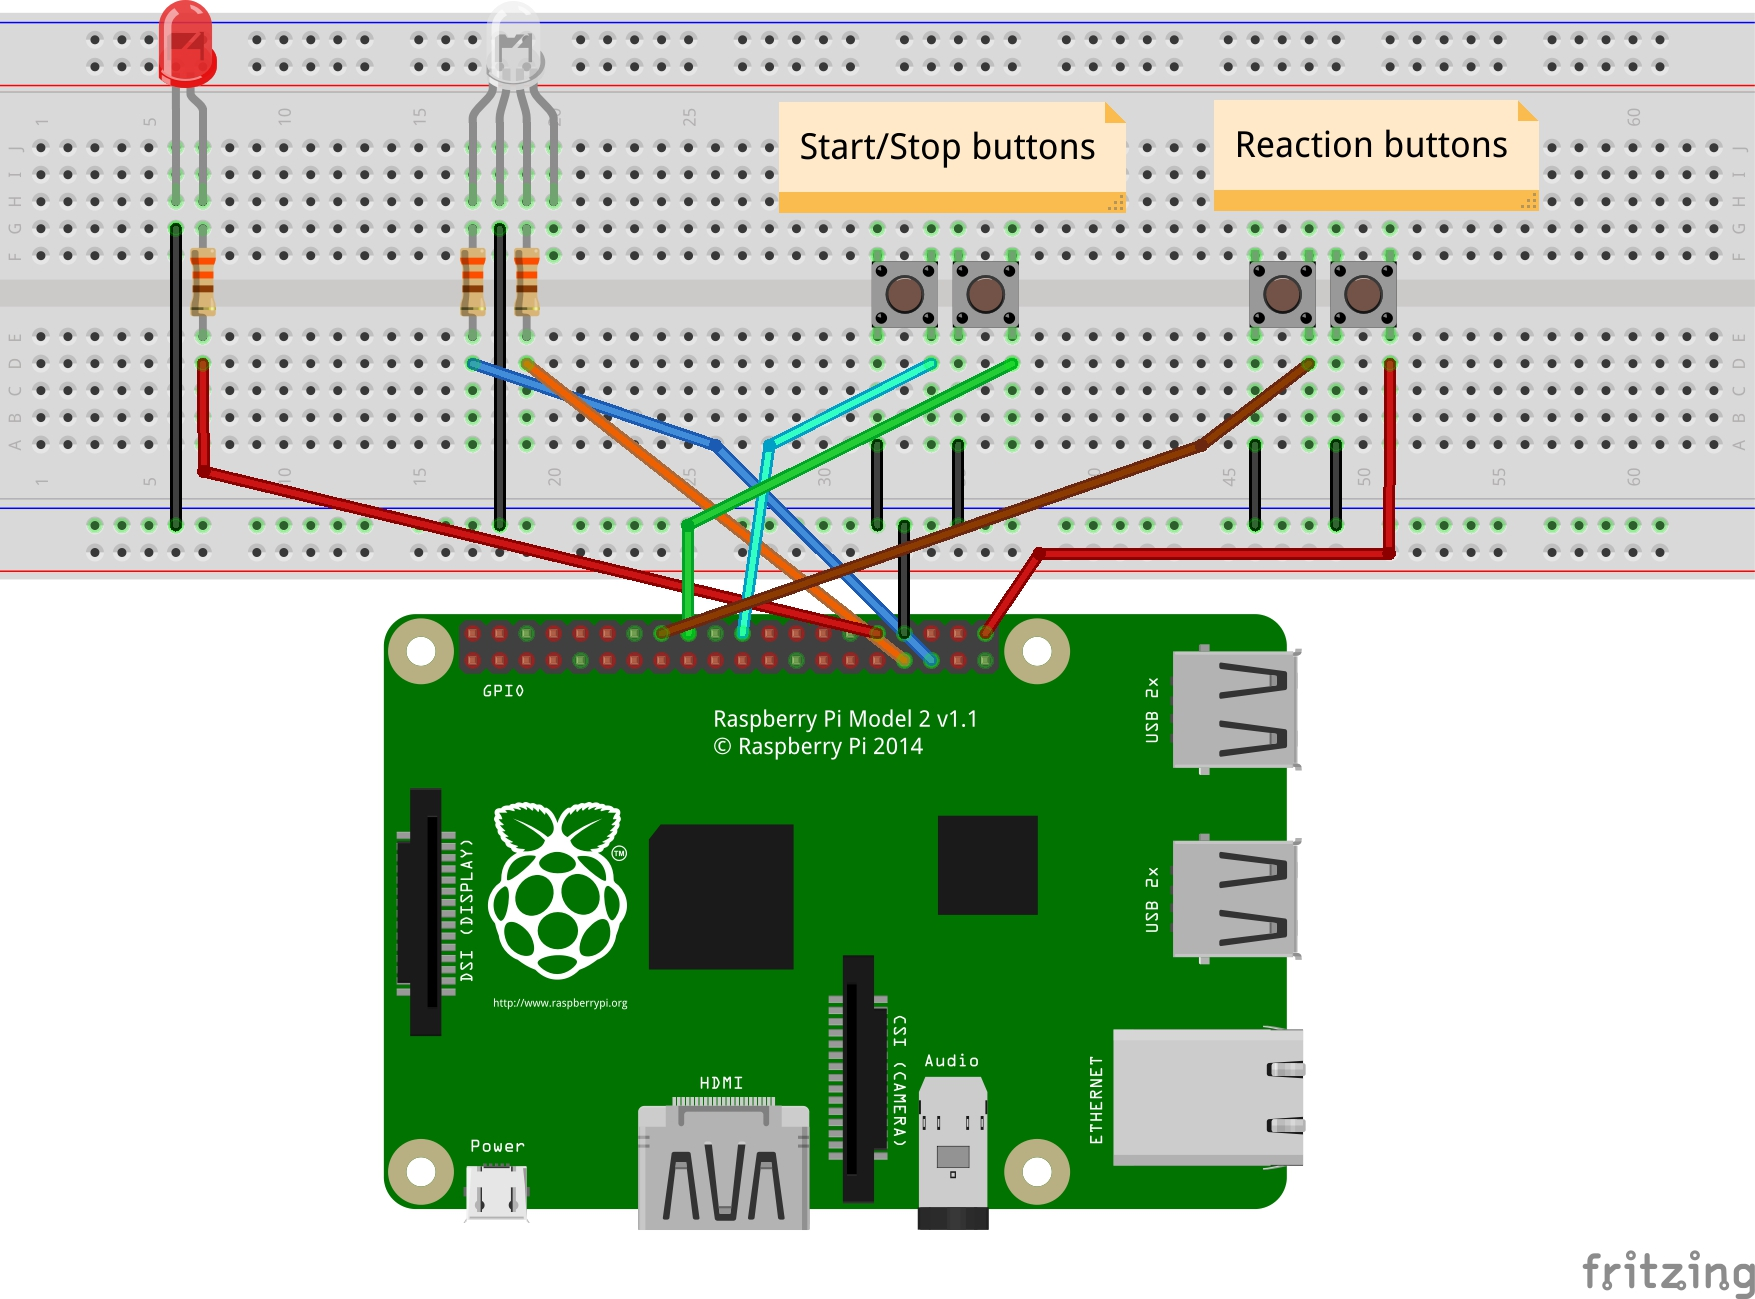
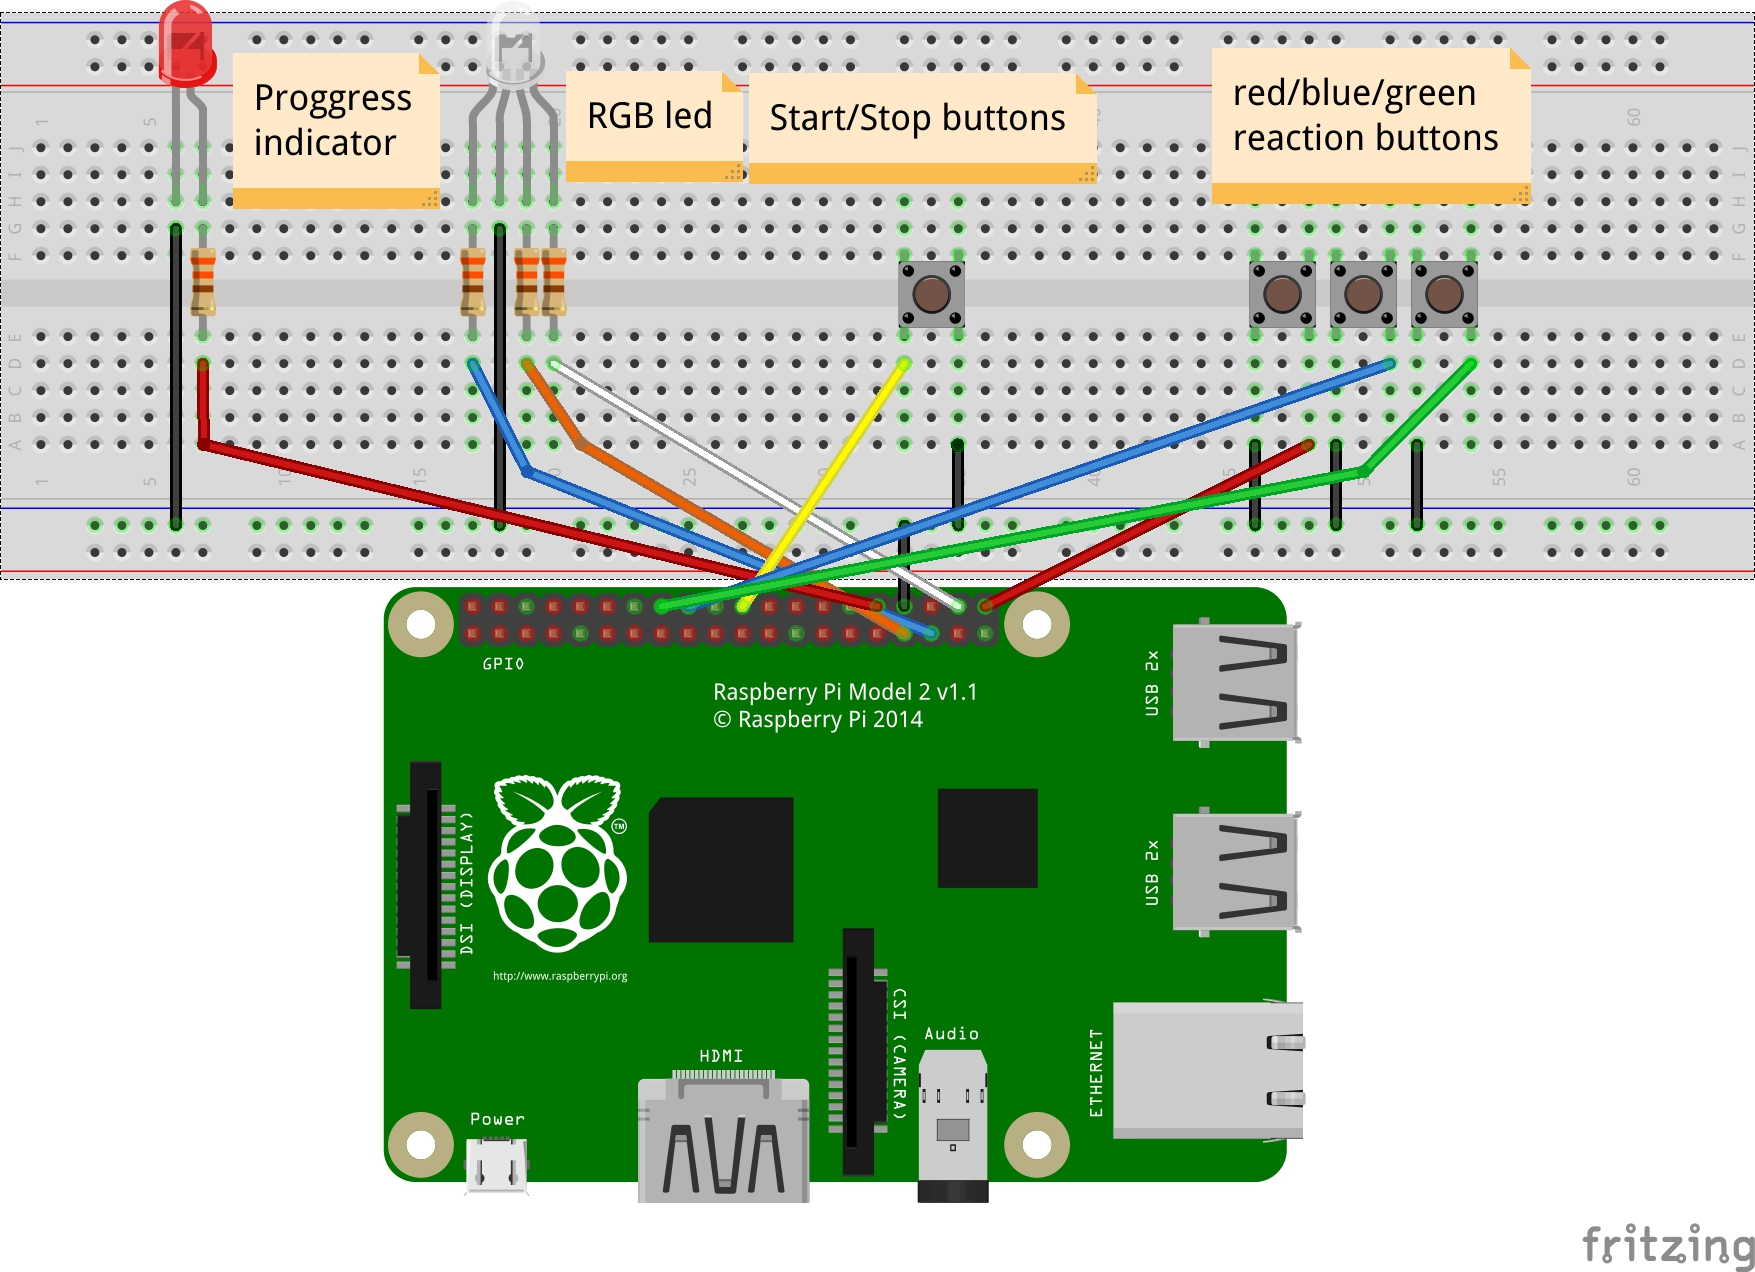
update documentation

diff --git a/README.md b/README.md
@@ -1,15 +1,12 @@
-## Raspberry Pi reaction test
-I am always amazed when I see nicely crafted software components. I admire developers who take the time and try to deliver something functional meanwhile it is also fun to read. 
-I don't claim that I always fulfil my own criteria but at least I am striving.
-What I like even more is when a software component has its hardware counterpart and they are working together to materialize the functionality in some physical effects. Based on this motive eventually I persuaded myself to buy a Raspberry Pi Model 2 with some extensions to be able build my own sandbox.
-The main goal of this project is to play around with Raspberry's GPIO capability and see how it goes with different scala frameworks.
+## Raspberry Pi reaction test for London Scala exchange 2015 [![Codacy Badge](https://api.codacy.com/project/badge/grade/2bdf2ea380b24871b9f52d878005a87b)](https://www.codacy.com/app/krisztian-lachata/raspberrypi-reaction-test)
 
 ### Functionality
-The test application itself is effectively a simple reaction measure system. 
+The application itself is a simple reaction measure system. 
 - Start the test with the start button
-- After it was kicked off it will randomly blink red or green led. You have to push red or green buttons respectively within the configured time range. 
+- Provide your details on the web UI, submit the form
+- After the submission it will randomly blink red, green or blue led. You have to push red, green or blue buttons respectively within the configured time range. 
 - The progress indicator PWM red led starts from OFF state. Based on your reaction its pulse width will be increased till the point where it reaches its maximum. 
-- When the red led reaches its maximum pulse width (brightest) the test is over. Calculated average reaction and number of tries will be printed.
+- When the red led reaches its maximum pulse width (brightest) the test is over. Calculated average reaction and number of tries will be recorded and displayed.
 - Better reaction time results longer test period -> more tries -> higher score
 
 That is it!
@@ -19,38 +16,32 @@ That is it!
 - [Fritzing](http://fritzing.org/home/) for circuit design
 - [wiringPi](http://wiringpi.com/) for low level GPIO manipulation
 - [pi4j](http://pi4j.com/) java library to interact with the pi
+- [pi4j-client](http://github.com/lachata/pi4j-client) to be able to run pi4j code remotely on a desktop
 - [Akka](http://doc.akka.io/docs/akka/2.4.0/scala.html?_ga=1.247924037.378696074.1444496540) to have actor, persistence, FSM, cluster support
+- [AngularJS](https://angularjs.org/) to increase the UI development speed
+- [Bootstrap](http://getbootstrap.com/) to speed up ergonomical UI development
 
-### Project structure
-In order to be able to try different approaches there are multiple modules in the project:
-- **common** - it contains the reusable parts
-- **gpio** - it contains the base implementation. Future combinators, promise, stream
-- **rx** - it ***will*** contain the RxScala implementation
-- **actor** - it ***will*** contain the actor based implementation
- 
 ### Circuit layout
 Items:
-- 3 x 330Ohm resistances
-- 1 x red led
+- 4 x 330Ohm resistances
+- 1 x red led as a progress indicator
 - 1 x RGB led
 - 4 x buttons
 - Breadboard + wires
 
 GPIO usage
-- Start button -> BCM_25 (input, PinPullResistance.PULL_UP)
-- Stop button -> BCM_24 (input, PinPullResistance.PULL_UP)
-- Red led -> BCM_19 (output)
-- Green led -> BCM_13 (output)
+- Start/Stop button -> BCM_25 (input, PinPullResistance.PULL_UP)
+- Shutdown button -> BCM_24 (input, PinPullResistance.PULL_UP)
+- Red led (RGB bulb) -> BCM_19 (output)
+- Green led (RGB bulb) -> BCM_13 (output)
+- Blue led (RGB bulb) -> BCM_20 (output)
 - Red button -> BCM_21 (input, PinPullResistance.PULL_UP)
 - Green button -> BCM_23 (input, PinPullResistance.PULL_UP)
+- Blue button -> BCM_24 (input, PinPullResistance.PULL_UP) (during the game it is a reaction button, after the game it is a shutdown button)
 - Progress indicator -> BCM_12 (PWM output)
 
 ![Alt text](docs/reaction_bb.jpg?raw=true "Breadboard")
 ![Alt text](docs/real.jpg?raw=true "Real")
 
 ### Implementation details
-The plan is to incrementally add new frameworks and see how I could implement the same functionality with different approaches
-- [Plain scala](gpio) :heavy_check_mark:
-- RxScala :x:
-- Actors :x:
-- Akka Stream :x:
+
